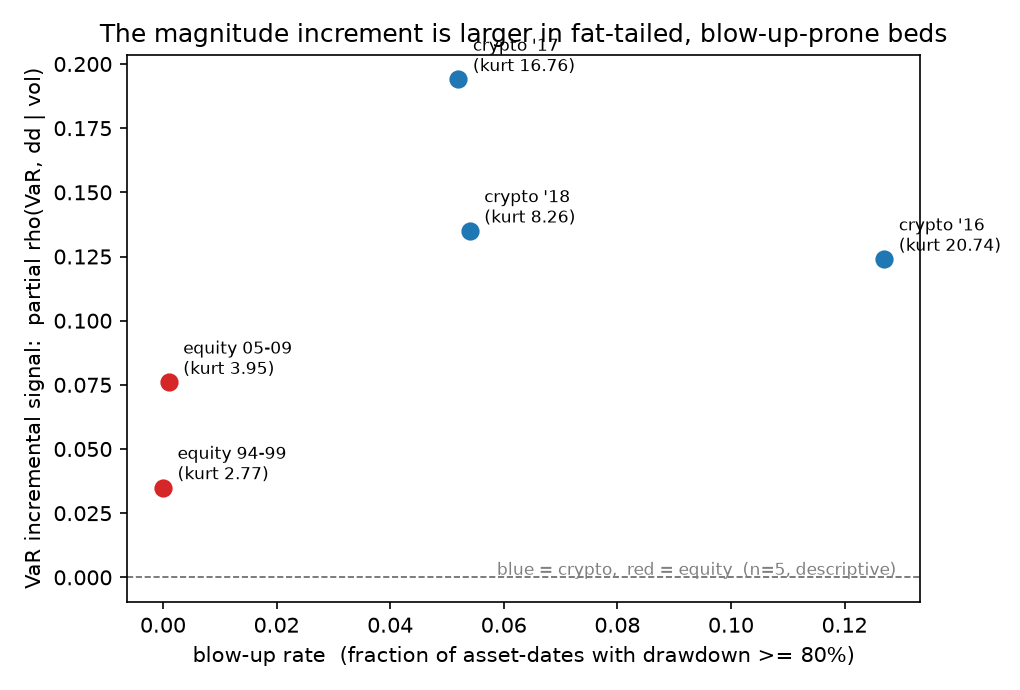
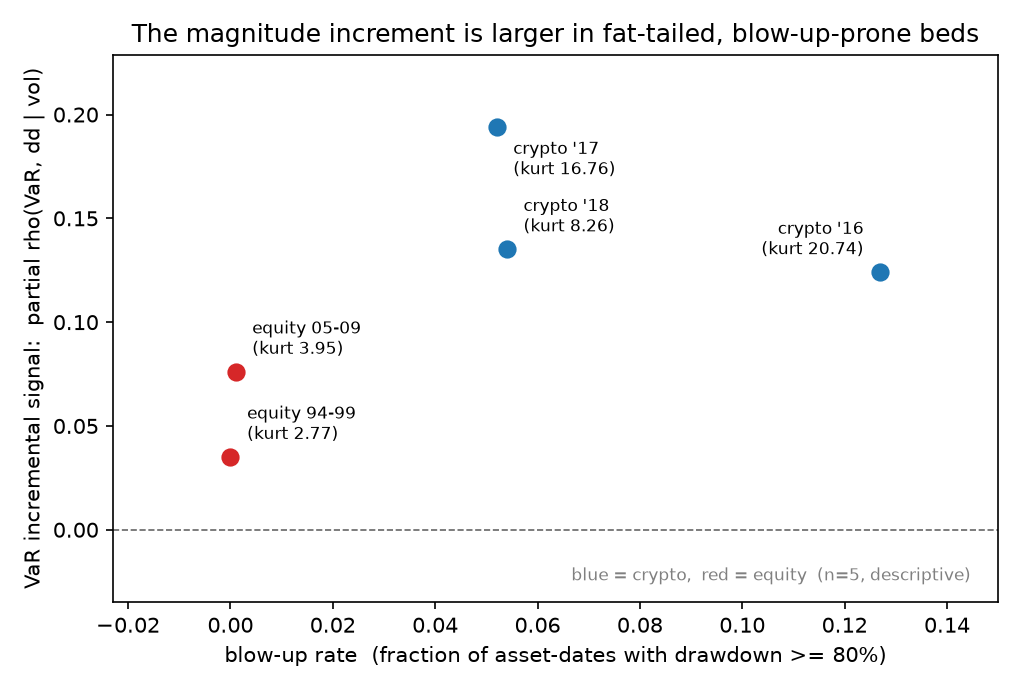
Fix right-margin overflows and Fig 6 off-frame labels
- Preamble: xurl (break long URLs, e.g. repo URL in App A) + \emergencystretch=3em
  so text lines wrap/stretch instead of running past the right margin.
- App G (delisting): move the overflowing +0.12/+0.12/+0.14 inline numbers into a
  compact table (Table 5); reword prose.
- Fig 6: pad axes and flip each bed label to the side that keeps it inside the frame
  (right/top-edge points now label left/below).
Horizontal overfull boxes: ~20 -> 0.

diff --git a/writeup/volatility_persistence_paper.tex b/writeup/volatility_persistence_paper.tex
@@ -20,6 +20,9 @@
 
 \usepackage{booktabs}
 \usepackage{graphicx}
+\usepackage{xurl}                    % break long URLs at any character (never exceed the column)
+\setlength{\emergencystretch}{3em}   % let TeX stretch spacing as a last resort rather than
+                                     % overflow the right margin -- lines wrap instead of running over
 
 \begin{document}
 
@@ -602,11 +605,29 @@ peak-to-trough, no $-100\%$ override), and \emph{excluding} delisted assets (ski
 among survivors only). Within the point-in-time top-$100$ universe, mid-window
 delistings are rare --- $0.9\%$ of asset-dates on crypto-2016 and none on the other
 four beds --- so the three codings barely differ. VaR's increment is unchanged to
-within $\pm0.02$: per bed, baseline\,/\,last-price\,/\,exclude gives
-$+0.12/{+}0.12/{+}0.14$ (crypto-16), $+0.19$ on all three (crypto-17), $+0.14$ on all
-three (crypto-18), $+0.035$ (equity-94), and $+0.076$ (equity-05); downside deviation
-and ES behave identically. The magnitude edge is drawdown-\emph{severity} forecasting,
+within $\pm0.02$ across all three (Table~\ref{tab:delisting}); downside deviation and
+ES behave identically. The magnitude edge is drawdown-\emph{severity} forecasting,
 distinct from the terminal-death signal.
+
+\begin{table}[h]
+\centering
+\small
+\caption{VaR partial $\rho(\text{VaR},\text{drawdown}\mid\text{vol})$ under three
+delisting codings. Baseline and last-price coincide (mid-window delistings are rare);
+the increment is unchanged to within $\pm0.02$.}
+\label{tab:delisting}
+\begin{tabular}{lccc}
+\toprule
+Bed & baseline ($-100\%$) & last-price & exclude \\
+\midrule
+crypto-16 & $+0.12$  & $+0.12$  & $+0.14$  \\
+crypto-17 & $+0.19$  & $+0.19$  & $+0.19$  \\
+crypto-18 & $+0.14$  & $+0.14$  & $+0.14$  \\
+equity-94 & $+0.035$ & $+0.035$ & $+0.035$ \\
+equity-05 & $+0.076$ & $+0.076$ & $+0.076$ \\
+\bottomrule
+\end{tabular}
+\end{table}
 
 \section{Pre-registered composite and economic backtest}\label{app:composite}
 The composite is $z(\text{vol})+z(\text{VaR})$, equal weight, computed

diff --git a/src/autoresearch/make_figures.py b/src/autoresearch/make_figures.py
@@ -201,19 +201,37 @@ def fig_best_of_n(sweep):
 # ---------------- Fig 6: increment scales with tail fatness ----------------
 def fig_increment(mech, depth):
     fig, ax = plt.subplots(figsize=(6.8, 4.6))
+    pts = []
     for bed in BEDS:
-        x = depth[bed]["heterogeneity"]["blowup_rate"]
-        y = mech[bed]["partial"]["var5"]["mean"]
-        kurt = depth[bed]["heterogeneity"]["mean_trailing_kurt"]
+        pts.append((depth[bed]["heterogeneity"]["blowup_rate"],
+                    mech[bed]["partial"]["var5"]["mean"],
+                    depth[bed]["heterogeneity"]["mean_trailing_kurt"], bed))
+    xs = [p[0] for p in pts]
+    ys = [p[1] for p in pts]
+    # Pad the axes so labels have room; then place each label on the side that keeps it
+    # inside the frame (flip to the left/below for points near the right/top edges).
+    xr = (min(xs), max(xs)); yr = (min(ys + [0.0]), max(ys))
+    xpad = 0.18 * (xr[1] - xr[0] or 1.0)
+    ypad = 0.18 * (yr[1] - yr[0] or 1.0)
+    ax.set_xlim(xr[0] - xpad, xr[1] + xpad)
+    ax.set_ylim(yr[0] - ypad, yr[1] + ypad)
+    xmid = 0.5 * (xr[0] + xr[1])
+    ythresh = yr[1] - 0.25 * (yr[1] - yr[0] or 1.0)
+    for x, y, kurt, bed in pts:
         color = "#1f77b4" if IS_CRYPTO[bed] else "#d62728"
         ax.scatter(x, y, s=60, color=color, zorder=3)
+        on_right = x > xmid
+        near_top = y > ythresh
+        dx, ha = (-8, "right") if on_right else (8, "left")
+        dy, va = (-6, "top") if near_top else (6, "bottom")
         ax.annotate(f"{BED_LABEL[bed]}\n(kurt {kurt:g})", (x, y),
-                    textcoords="offset points", xytext=(7, 4), fontsize=8)
+                    textcoords="offset points", xytext=(dx, dy),
+                    ha=ha, va=va, fontsize=8)
     ax.axhline(0, color="k", lw=0.8, ls="--", alpha=0.6)
     ax.set_xlabel("blow-up rate  (fraction of asset-dates with drawdown >= 80%)")
     ax.set_ylabel("VaR incremental signal:  partial rho(VaR, dd | vol)")
     ax.set_title("The magnitude increment is larger in fat-tailed, blow-up-prone beds")
-    ax.text(0.97, 0.05, "blue = crypto,  red = equity  (n=5, descriptive)",
+    ax.text(0.97, 0.04, "blue = crypto,  red = equity  (n=5, descriptive)",
             transform=ax.transAxes, ha="right", fontsize=8, color="gray")
     fig.tight_layout()
     _save(fig, "fig6_increment_vs_tailfat.png")